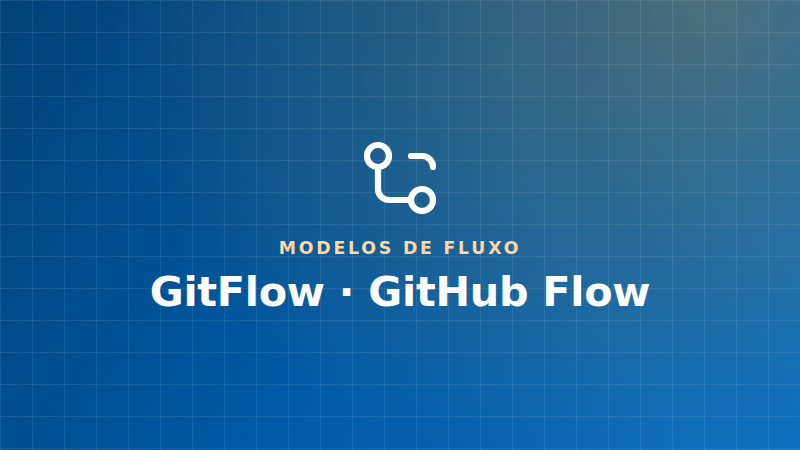
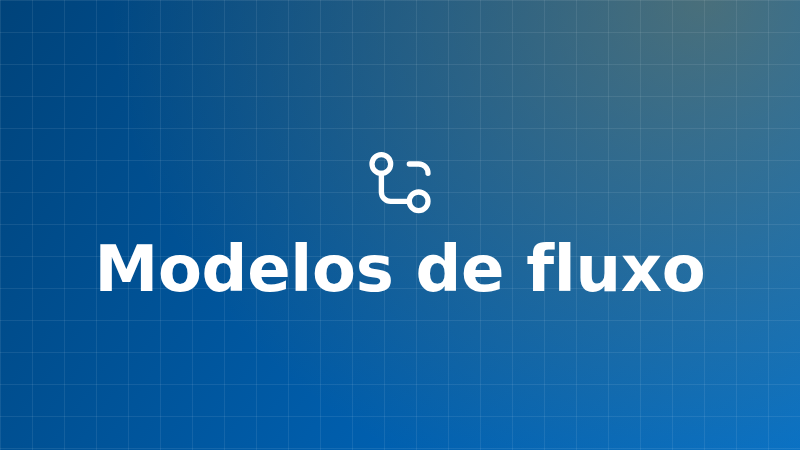
Enlarge tile type and reduce the four technology tiles to their section label
Type went from 62px to 96px in the art. At the roughly 236px the card
renders, the previous size read at about 12px on screen, which is why it
looked small.

The four technology tiles now carry only the section label — Versionamento,
Plataformas DevOps, Modelos de fluxo, Versões — instead of label plus
technology name. That is the text that names the item in the Visão Geral,
and it also removes the longest string in the set: "Azure DevOps · GitHub"
no longer fits once the type grows. The icon stays on every tile.

Also caps the heading width. Without it the title never wrapped and simply
ran past the edge of the art, which is what the overflow guard reported.

Claude-Session: https://claude.ai/code/session_019NmiVkfk9ZXceb87ffsC4p

Changed region(s): [[0.125, 0.5289, 0.9062, 0.6844], [0.4375, 0.3111, 0.5625, 0.4667]]

diff --git a/prototypes/versionamento-codigo/sharepoint/gerar-links-rapidos-titulo.js b/prototypes/versionamento-codigo/sharepoint/gerar-links-rapidos-titulo.js
@@ -23,17 +23,18 @@ function glifoDe(arquivo) {
   const m = svg.match(/<g transform="translate\([^)]*\) scale\([^)]*\)"[\s\S]*?>([\s\S]*?)<\/g>\s*<\/svg>/);
   if (!m) throw new Error(`${arquivo}: não encontrei o glifo`);
   const rot = (svg.match(/aria-label="([^"]+)"/) || [, arquivo])[1];
-  // "Versionamento — Git" tem antetítulo; os tópicos não têm
-  const [ante, titulo] = rot.includes(' — ') ? rot.split(' — ') : [null, rot];
-  return { glifo: m[1].trim(), ante, titulo, rotulo: rot };
+  // Em "Versionamento — Git", o cartão leva só o rótulo da seção: é ele que
+  // nomeia o item na Visão Geral. O nome da tecnologia fica para o texto da página.
+  const titulo = rot.includes(' — ') ? rot.split(' — ')[0] : rot;
+  return { glifo: m[1].trim(), titulo, rotulo: rot };
 }
 
-const pagina = ({ glifo, ante, titulo }) => `<!DOCTYPE html><html><head><meta charset="utf-8"><style>
+const pagina = ({ glifo, titulo }) => `<!DOCTYPE html><html><head><meta charset="utf-8"><style>
   html,body{margin:0;padding:0}
   .tile{
     width:${W}px; height:${H}px; box-sizing:border-box; position:relative; overflow:hidden;
-    display:flex; flex-direction:column; align-items:center; justify-content:center; gap:26px;
-    padding:60px 80px;
+    display:flex; flex-direction:column; align-items:center; justify-content:center; gap:22px;
+    padding:44px 56px;
     background:
       radial-gradient(120% 190% at 88% 0%, rgba(243,146,0,.30), transparent 62%),
       linear-gradient(125deg,#00437a 0%,#005ca9 55%,#0070cc 100%);
@@ -46,19 +47,17 @@ const pagina = ({ glifo, ante, titulo }) => `<!DOCTYPE html><html><head><meta ch
       linear-gradient(90deg, rgba(255,255,255,.08) 1.5px, transparent 1.5px);
     background-size:48px 48px;
   }
-  .conteudo{position:relative; display:flex; flex-direction:column; align-items:center; gap:24px}
-  .ante{
-    font-size:26px; font-weight:700; letter-spacing:.16em; text-transform:uppercase;
-    color:#ffd7a3; margin-bottom:-8px;
-  }
-  h1{margin:0; font-size:62px; font-weight:700; line-height:1.14; color:#fff; letter-spacing:-.4px}
-  svg{width:132px; height:132px; display:block}
+  .conteudo{position:relative; display:flex; flex-direction:column; align-items:center; gap:20px}
+  /* sem limite de largura o título não quebra linha e vaza a arte; a folga extra
+     mantém a medida abaixo do limite verificado adiante */
+  h1{margin:0; max-width:${W - 160}px; font-size:96px; font-weight:700; line-height:1.12;
+     color:#fff; letter-spacing:-.4px; text-wrap:balance}
+  svg{width:112px; height:112px; display:block}
 </style></head><body>
   <div class="tile"><div class="malha"></div>
     <div class="conteudo">
       <svg viewBox="0 0 24 24" fill="none" stroke="#fff" stroke-width="1.7"
            stroke-linecap="round" stroke-linejoin="round">${glifo}</svg>
-      ${ante ? `<div class="ante">${ante}</div>` : ''}
       <h1>${titulo}</h1>
     </div>
   </div>
@@ -80,13 +79,20 @@ const pagina = ({ glifo, ante, titulo }) => `<!DOCTYPE html><html><head><meta ch
   for (const f of arquivos) {
     const dados = glifoDe(f);
     await page.setContent(pagina(dados));
-    // título que estoura a arte seria cortado em silêncio
+    // título que estoura a arte seria cortado em silêncio; compara com a caixa
+    // de conteúdo real do tile, descontando o padding, e não com folga arbitrária
     const vaza = await page.evaluate(() => {
-      const t = document.querySelector('.tile').getBoundingClientRect();
+      const tile = document.querySelector('.tile');
+      const cs = getComputedStyle(tile);
+      const dispW = tile.clientWidth - parseFloat(cs.paddingLeft) - parseFloat(cs.paddingRight);
+      const dispH = tile.clientHeight - parseFloat(cs.paddingTop) - parseFloat(cs.paddingBottom);
       const c = document.querySelector('.conteudo').getBoundingClientRect();
-      return { alto: c.height > t.height - 80, largo: c.width > t.width - 120 };
+      return { largo: c.width > dispW + 0.5, alto: c.height > dispH + 0.5,
+               c: [Math.round(c.width), Math.round(c.height)], d: [Math.round(dispW), Math.round(dispH)] };
     });
-    if (vaza.alto || vaza.largo) throw new Error(`"${dados.titulo}" não cabe na arte`);
+    if (vaza.largo || vaza.alto) {
+      throw new Error(`"${dados.titulo}" não cabe: conteúdo ${vaza.c.join('x')} em ${vaza.d.join('x')} disponíveis`);
+    }
 
     const alvo = path.join(SAIDA, f.replace(/\.svg$/, '.png'));
     await page.locator('.tile').screenshot({ path: alvo });
